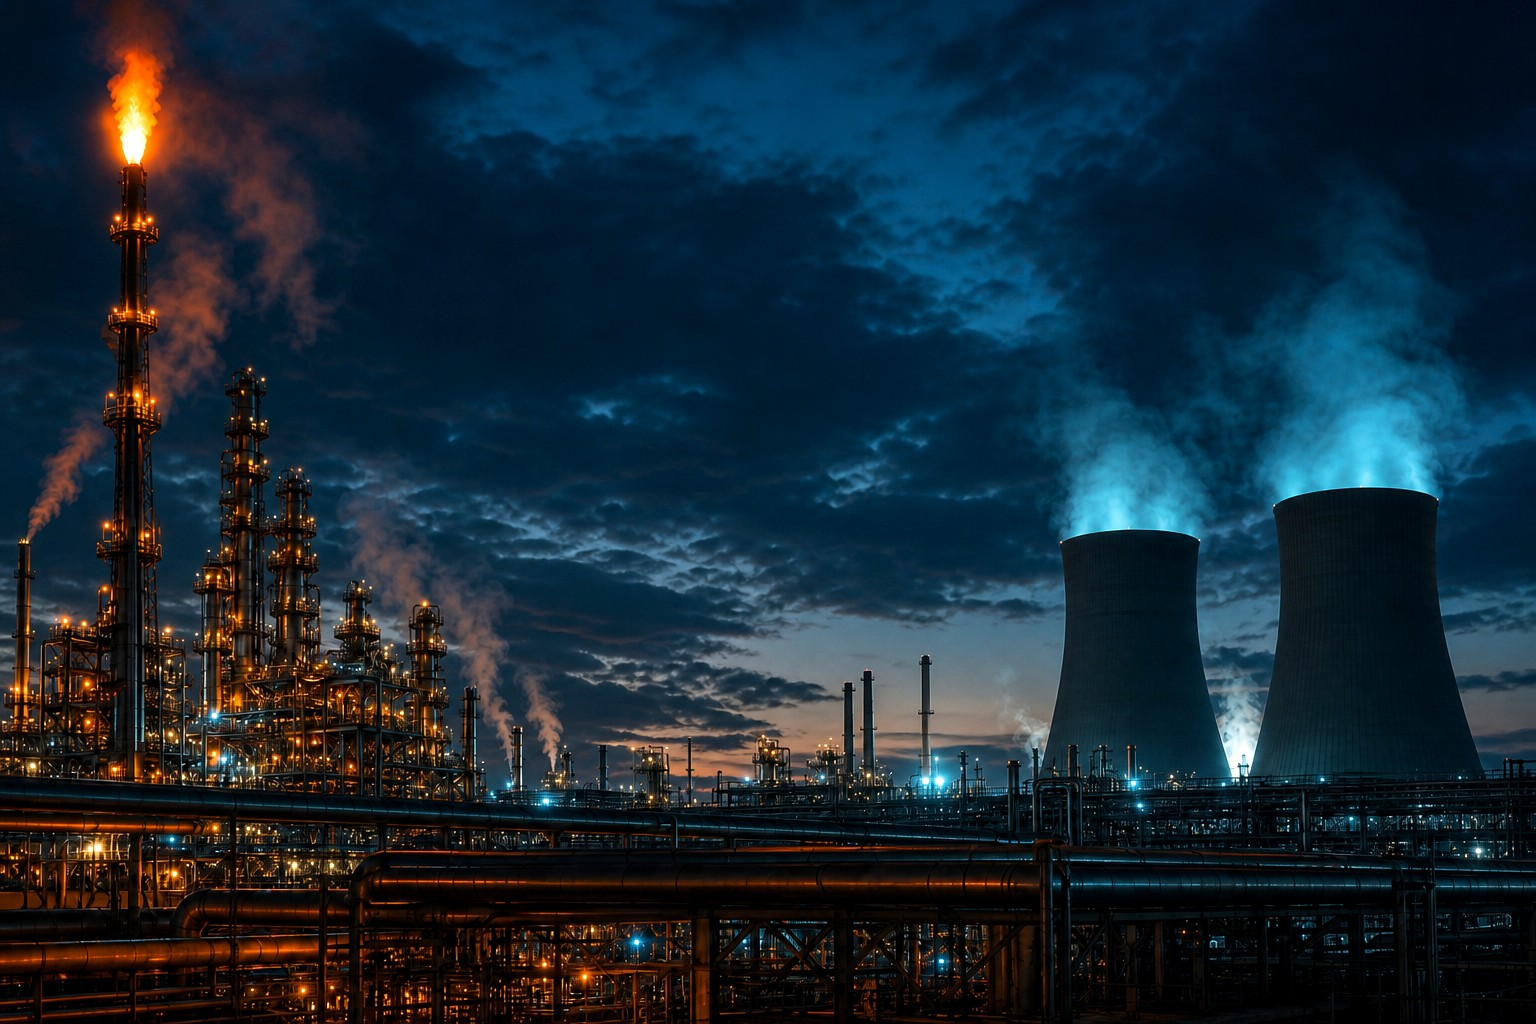
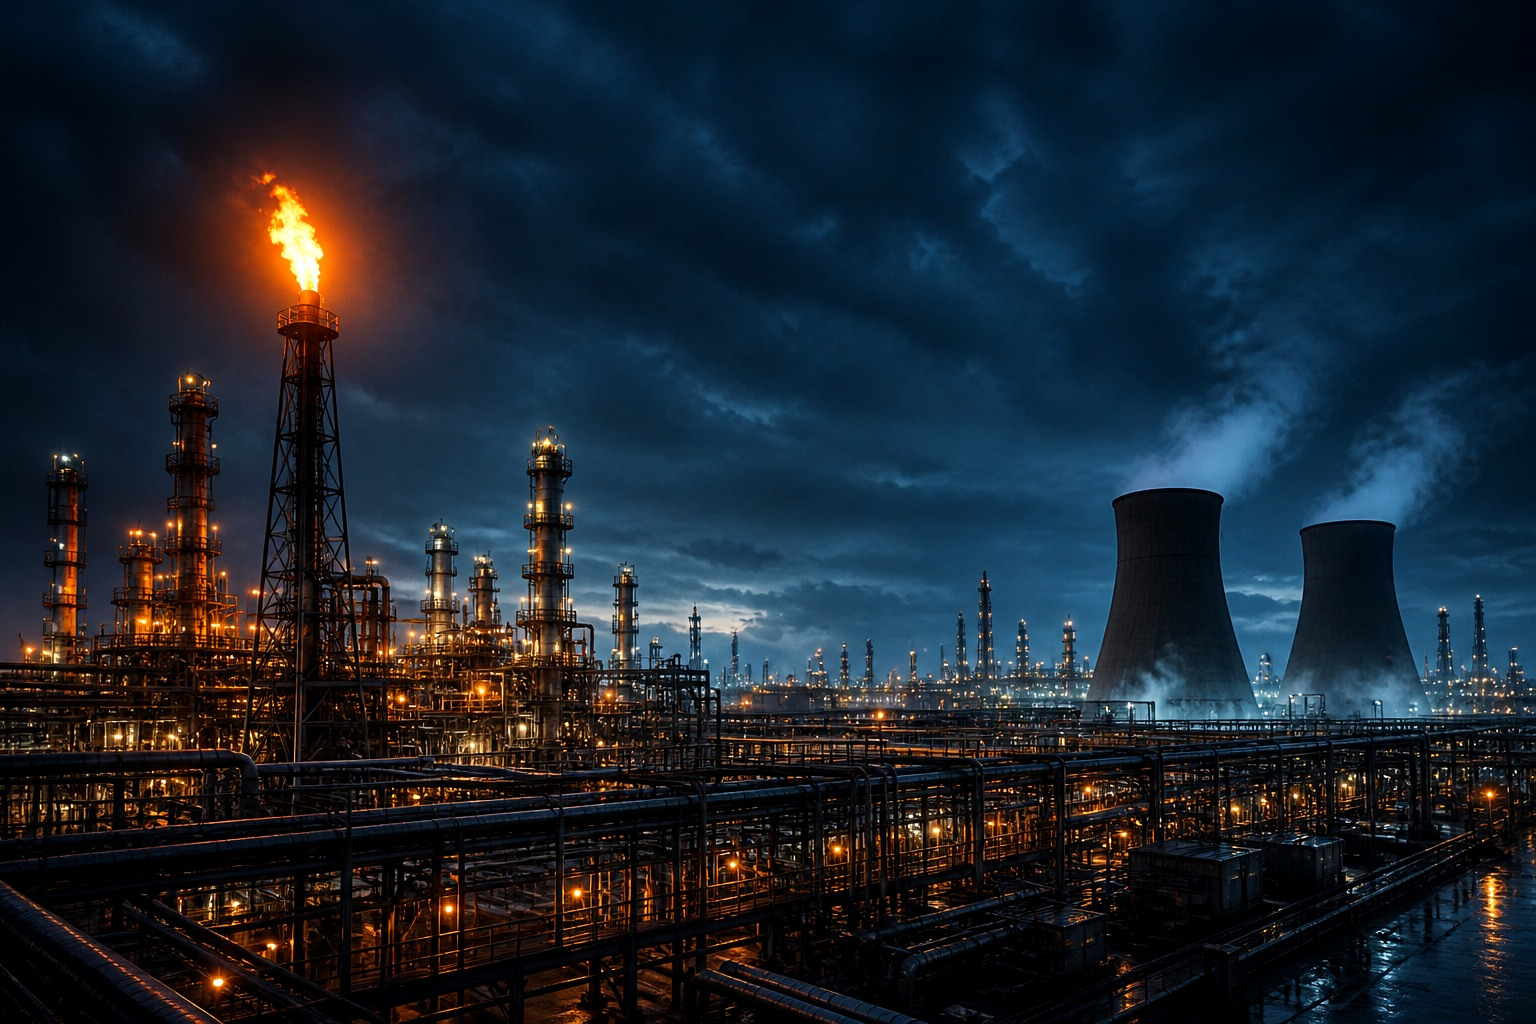
Match the Grok plant hero with a clean PROJECT CONTROLS mark
Use a sharper dusk-refinery photo of the same cooling-tower / flare scene. Title is one static HIT SQUAD over PROJECT CONTROLS with no framed overlay crowding it.

diff --git a/components/DeskHero.tsx b/components/DeskHero.tsx
@@ -9,12 +9,12 @@ export function DeskHero() {
   return (
     <section className="desk-hero desk-hero-bleed px-4 py-16 text-center sm:py-20">
       <div className="relative z-10">
-        <div className="hud-mark brand-static">
+        <div className="hero-mark brand-static">
           <BrandMark variant="stacked" className="mx-auto h-14 w-10" />
           <p className="mt-3 font-display text-5xl font-semibold tracking-[0.16em] text-white sm:text-6xl">
             HIT SQUAD
           </p>
-          <p className="mt-2 font-display text-xl font-semibold tracking-[0.28em] text-white sm:text-2xl">
+          <p className="mt-2 font-display text-xl font-semibold tracking-[0.32em] text-white sm:text-2xl">
             PROJECT CONTROLS
           </p>
         </div>

diff --git a/app/globals.css b/app/globals.css
@@ -172,15 +172,25 @@ textarea:focus {
   position: relative;
   overflow: hidden;
   isolation: isolate;
-  min-height: 440px;
+  min-height: 460px;
   background:
-    radial-gradient(70% 55% at 50% 38%, rgba(6, 22, 26, 0.18) 0%, rgba(6, 22, 26, 0.42) 48%, rgba(6, 22, 26, 0.88) 100%),
-    url("/brand-hero.jpg") center 40% / cover no-repeat #06161a;
+    radial-gradient(55% 48% at 50% 36%, rgba(6, 22, 26, 0.08) 0%, rgba(6, 22, 26, 0.38) 52%, rgba(6, 22, 26, 0.9) 100%),
+    url("/brand-hero.jpg") center 38% / cover no-repeat #06161a;
 }
 
 .desk-hero::before,
 .desk-hero::after {
   content: none;
+}
+
+.hero-mark {
+  position: relative;
+  z-index: 2;
+  display: inline-block;
+}
+
+.hero-mark p {
+  text-shadow: 0 2px 18px rgba(6, 22, 26, 0.7);
 }
 
 .hud-mark {
